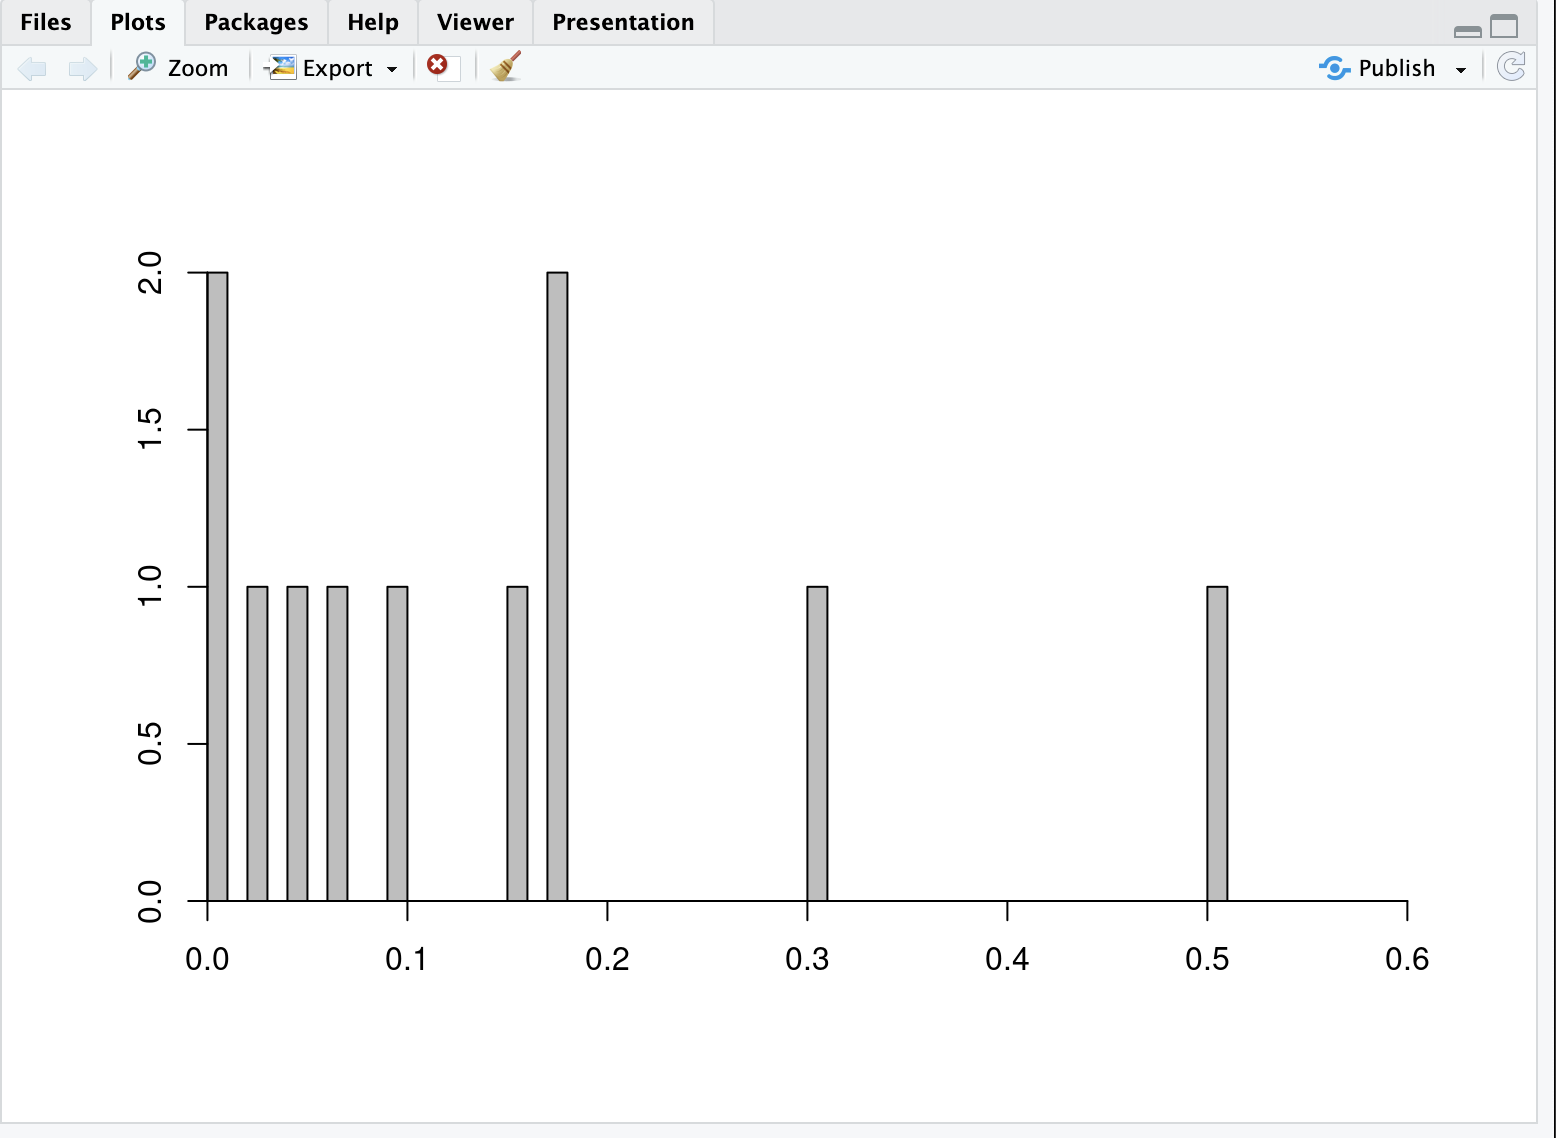
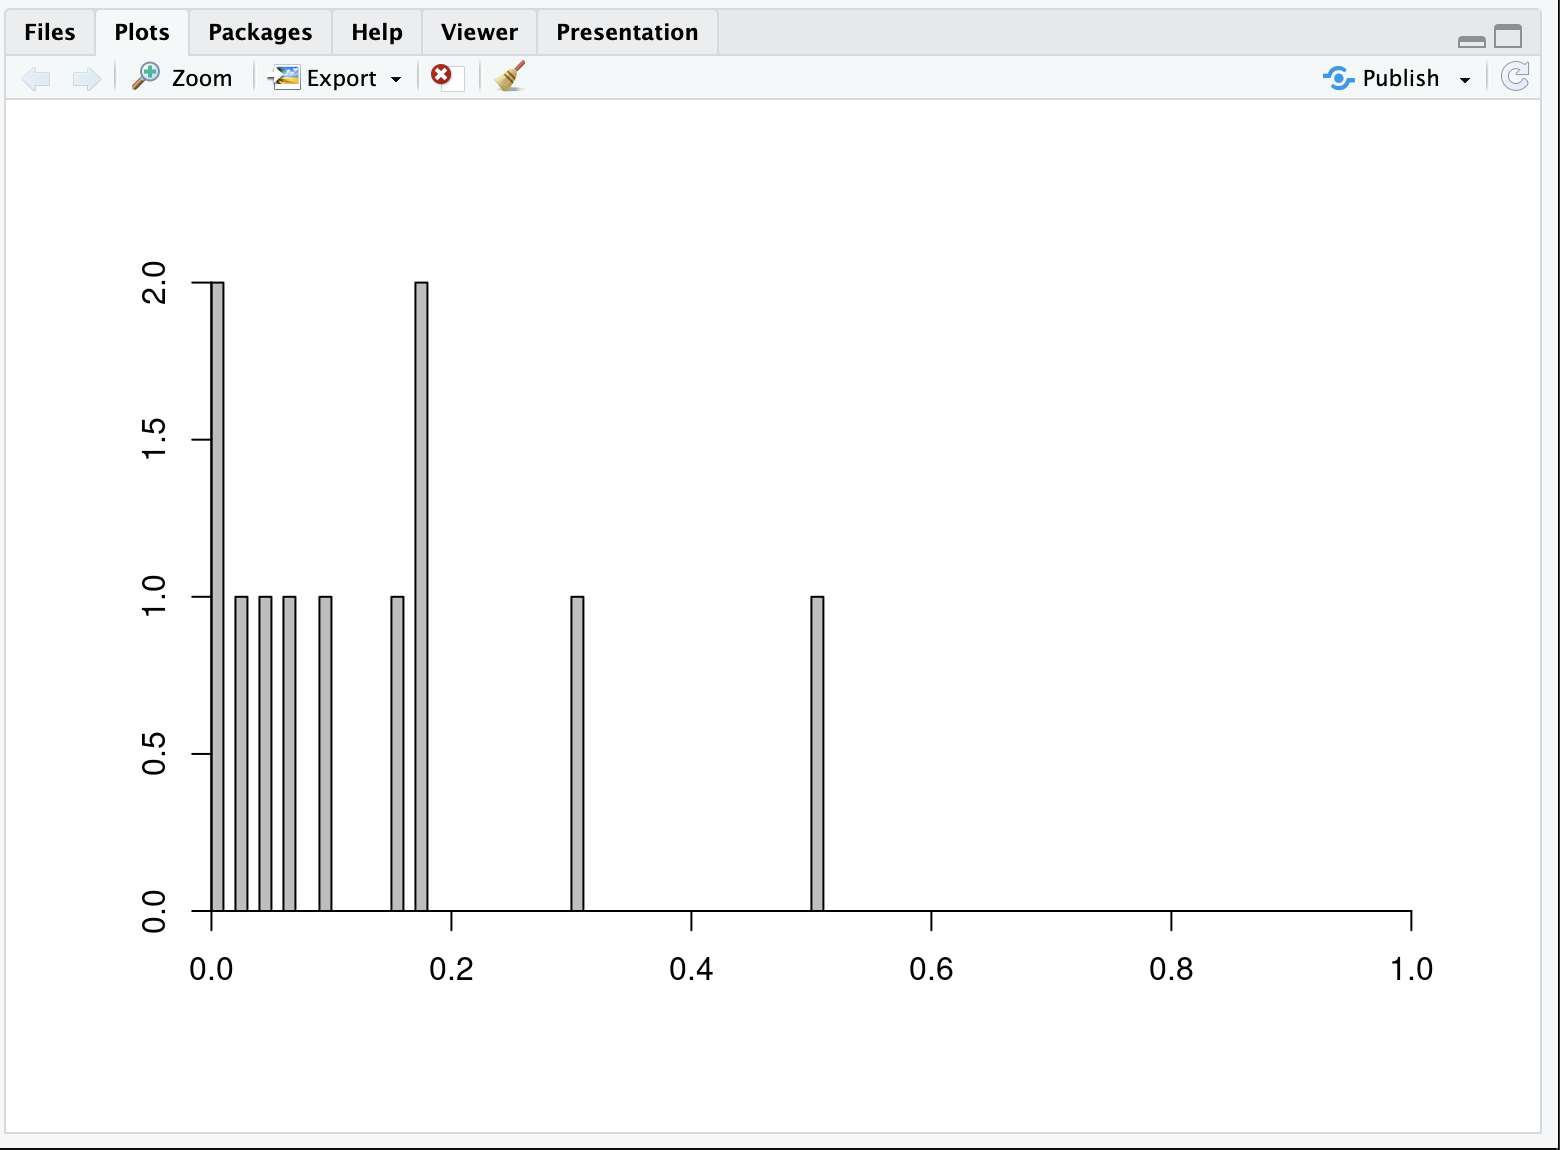
x

diff --git a/tutorials/WGD.md b/tutorials/WGD.md
@@ -174,7 +174,7 @@
 	
 		setwd ("/data_tmp/mpemaster/data/07_phylogenomic_analyses/13_wdg/")
 		a=read.table('dup_perc_filter70_global.meliaceae_wgd_mrca.branch_labels')
-		hist(a[,1],breaks=60,col='grey',xlab='',ylab='',main='',axes=FALSE,xlim=c(0,0.6))
+		hist(a[,1],breaks=60,col='grey',xlab='',ylab='',main='',axes=FALSE,xlim=c(0,1))
 		axis(1,pos=0)
 		axis(2,pos=0)
 		
@@ -242,6 +242,34 @@
 		((((((((((((MELI_Aglaia_spectabilis:0.0375885764,MELI_Aphanamixis_polystachya:0.0419670632):0.0056021936,MELI_Cabralea_canjerana:0.025582682):0.0046142662,MELI_Dysoxylum_alliaceum:0.0482585193):0.002629005,MELI_Chisocheton_longistipitatus:0.0434381144):0.0016593652,((MELI_Heckeldora_staudtii:0.0427502585,MELI_Guarea_pubescens:0.0411445158):0.0007827064,(MELI_Neoguarea_glomerulata:0.0451238849,MELI_Turraeanthus_manii:0.0560241287):0.0018363755):0.0023701151)0.00621118012422:0.0060012439,MELI_Vavaea_amicorum:0.0762391468)0.210084033613:0.0077188462,(MELI_Trichilia_hirta:0.0527954546,MELI_Turraea_virens:0.1002290411)0.0348837209302:0.0208684956)0.416666666667:0.0092840998,MELI_Munronia_pinnata:0.0763143712)0.676056338028:0.0115924912,MELI_Quivisianthe_papinae:0.0927838334)0.0866666666667:0.0330980586,(((MELI_Azadirachta_indica:0.0028085964,MELI_Melia_azedarach:0.0042547263):0.0325065738,MELI_Owenia_reticulata:0.0372445257)0.00840336134454:0.0189203949,MELI_Pterorhachis_zenkeri:0.0506308134):0.0601215172):0.0068608865,((((MELI_Toona_ciliata:0.0209736796,(MELI_Cedrela_montana:0.0246820354,MELI_Cedrela_saltensis:0.0106038088):0.0356809672):0.0186519042,MELI_Lovoa_sywnnertonii:0.0681119901):0.0045679476,((MELI_Swietenia_macrophylla:0.0124428947,MELI_Swietenia_mahagoni:0.0307433133):0.0231644117,MELI_Carapa_procera:0.0308532123):0.0385898559)0.224669603524:0.0154981841,(MELI_Schmardaea_microphylla:0.0977996692,MELI_Chukrasia_tabularis:0.0568456093):0.0103559063)0.32962962963:0.0261171806)0.0210843373494:0.0484817959,(RUTA_Melicope_ternata:0.1713673116,(RUTA_Citrus_hystrix:0.1203095997,RUTA_Ruta_graveolens:0.2229865468):0.0173378156):0.0484817959):0;
 	
 	<p align="center"><img src="images/wgdconper.png" alt="wgdcp" width="900"></p>
+	
+	As before let's plot the WGD to see outliers
+	
+		python /data_tmp/mpemaster/script/plot_branch_labels.py dup_perc_concord.meliaceae_wgd_concordant
+
+	You can see
+	
+		0.00621118012422
+		0.210084033613
+		0.0348837209302
+		0.416666666667
+		0.676056338028
+		0.0866666666667
+		0.00840336134454
+		0.224669603524
+		0.32962962963
+		0.0210843373494
+		output written to dup_perc_concord.meliaceae_wgd_concordant.branch_labels
+		
+	Now go back to Rstudio and plot the percentages
+	
+		b=read.table('dup_perc_concord.meliaceae_wgd_concordant.branch_labels')
+		hist(b[,1],breaks=60,col='grey',xlab='',ylab='',main='',axes=FALSE,xlim=c(0,1))
+		axis(1,pos=0)
+		axis(2,pos=0)
+		
+	<p align="center"><img src="images/wgdplot2.png" alt="wgdplot2" width="900"></p>
+
 
 
 		
